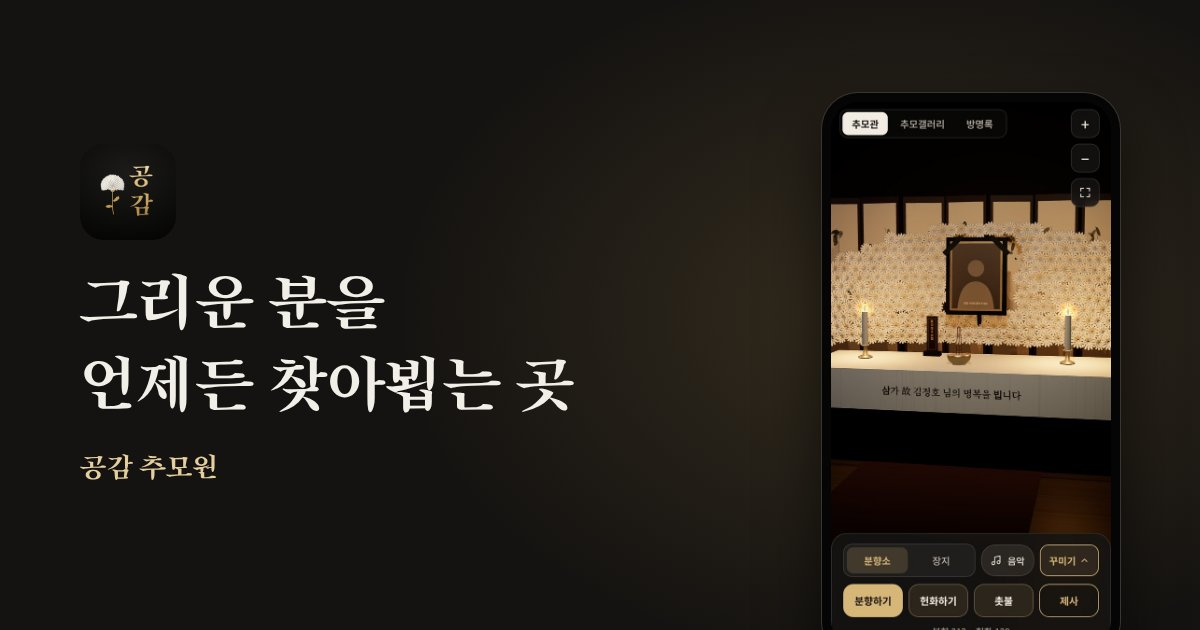
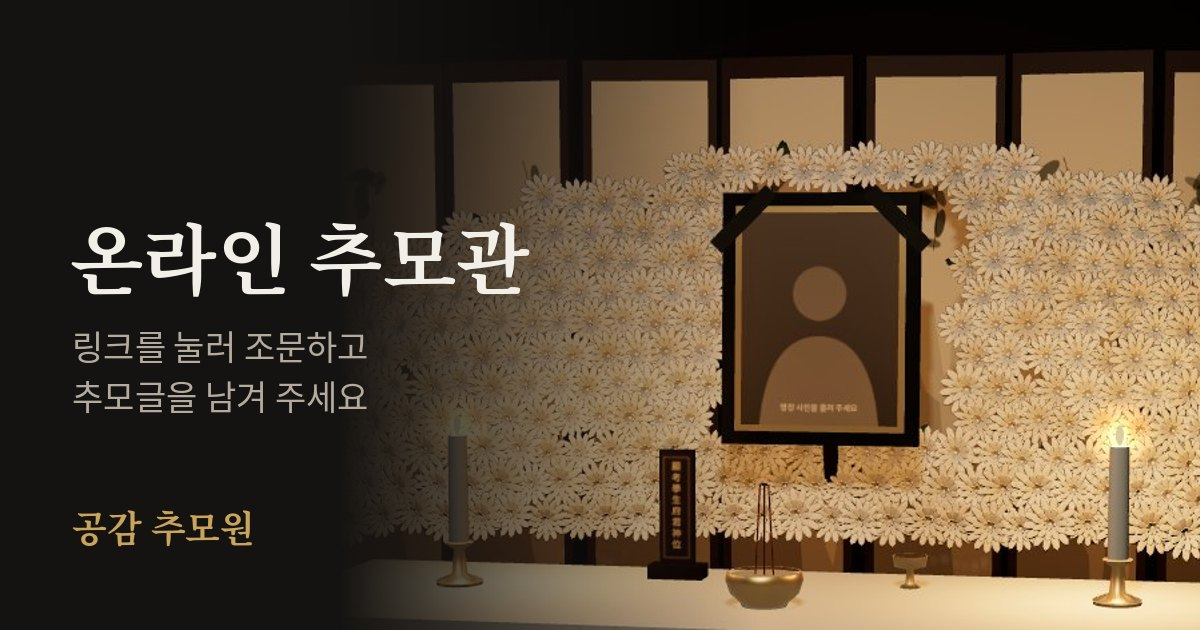
웹 추모관: 앱 없이 링크로 조문(헌화·추모글)
Claude-Session: https://claude.ai/code/session_01WvjGqiVXugAiAGwkNjewY5

diff --git a/m/index.html b/m/index.html
@@ -1,0 +1,204 @@
+<!doctype html>
+<html lang="ko">
+<head>
+<meta charset="utf-8">
+<meta name="viewport" content="width=device-width, initial-scale=1, viewport-fit=cover">
+<title>온라인 추모관 · 공감 추모원</title>
+<meta name="description" content="앱을 설치하지 않아도 링크로 조문하고 추모글을 남길 수 있어요.">
+<meta property="og:type" content="website">
+<meta property="og:title" content="온라인 추모관 · 공감 추모원">
+<meta property="og:description" content="링크를 눌러 조문하고 추모글을 남겨 주세요.">
+<meta property="og:image" content="https://gonggamchumowon.co.kr/img/og.jpg">
+<meta name="theme-color" content="#151311">
+<link rel="icon" href="../icon.png">
+<link rel="preconnect" href="https://fonts.googleapis.com">
+<link rel="preconnect" href="https://fonts.gstatic.com" crossorigin>
+<link rel="stylesheet" href="https://fonts.googleapis.com/css2?family=Song+Myung&family=IBM+Plex+Sans+KR:wght@400;500;600&display=swap">
+<style>
+:root {
+  --ink: #151311; --ink-2: #1e1b18; --ink-3: #26221e; --line: #34302a;
+  --gold: #c9a45c; --gold-soft: #e6cf9f; --mum: #f2efe8; --sub: #b3ab9f; --faint: #8a8276;
+  --display: "Song Myung", "Nanum Myeongjo", serif;
+  --body: "IBM Plex Sans KR", "Apple SD Gothic Neo", "Malgun Gothic", system-ui, sans-serif;
+  color-scheme: dark;
+}
+* { box-sizing: border-box; }
+html { -webkit-text-size-adjust: 100%; }
+body { margin: 0; background: var(--ink); color: var(--mum); font: 400 17px/1.75 var(--body); word-break: keep-all; }
+a { color: var(--gold-soft); }
+:focus-visible { outline: 2px solid var(--gold); outline-offset: 3px; border-radius: 6px; }
+.wrap { max-width: 560px; margin: 0 auto; padding: 0 max(20px, env(safe-area-inset-right, 0px)) 0 max(20px, env(safe-area-inset-left, 0px)); }
+header { border-bottom: 1px solid var(--line); }
+header .wrap { display: flex; align-items: center; gap: 10px; height: 60px; }
+.brand { display: flex; align-items: center; gap: 10px; color: var(--mum); text-decoration: none; font-family: var(--display); font-size: 19px; }
+.brand img { width: 30px; height: 30px; border-radius: 8px; }
+
+/* 분향소: 촛불빛이 영정 뒤로 번진다 */
+.altar { position: relative; text-align: center; padding: 44px 0 34px; isolation: isolate; }
+.altar::before { content: ""; position: absolute; inset: 0 -40px; z-index: -1; background: radial-gradient(ellipse 60% 52% at 50% 36%, rgba(201, 164, 92, .20), transparent 70%); }
+.portrait { position: relative; width: min(62vw, 240px); aspect-ratio: 3 / 4; margin: 0 auto; padding: 10px; background: linear-gradient(145deg, #e7cf93, #9c7a37 45%, #e1c47f 70%, #8a6a2d); border-radius: 4px; box-shadow: 0 24px 60px rgba(0, 0, 0, .55); }
+.portrait .in { width: 100%; height: 100%; background: #0d0c0b center / cover no-repeat; border-radius: 2px; display: grid; place-items: center; overflow: hidden; }
+.portrait .in svg { width: 46%; opacity: .35; }
+.portrait .ribbon { position: absolute; width: 46px; height: 46px; overflow: hidden; }
+.portrait .ribbon::after { content: ""; position: absolute; width: 90px; height: 16px; background: #0b0a09; top: 14px; left: -22px; transform: rotate(-45deg); }
+.portrait .ribbon.r { right: 0; top: 0; transform: scaleX(-1); }
+.portrait .ribbon.l { left: 0; top: 0; }
+.pet .portrait { border-radius: 50%; aspect-ratio: 1; padding: 8px; background: linear-gradient(145deg, #f6d8e4, #c8d9f3); }
+.pet .portrait .in { border-radius: 50%; }
+.pet .portrait .ribbon { display: none; }
+.pet .altar::before { background: radial-gradient(ellipse 60% 52% at 50% 36%, rgba(200, 180, 240, .2), transparent 70%); }
+h1 { font-family: var(--display); font-weight: 400; font-size: clamp(32px, 9vw, 42px); line-height: 1.25; margin: 28px 0 4px; }
+h1 small { font-size: .5em; color: var(--sub); margin-left: 6px; }
+.dates { color: var(--sub); font-size: 16px; letter-spacing: .02em; }
+.phrase { font-family: var(--display); color: var(--gold-soft); font-size: 20px; margin-top: 18px; }
+
+.acts { display: grid; grid-template-columns: 1fr 1fr; gap: 10px; margin: 6px 0 28px; }
+.btn { appearance: none; border: 0; cursor: pointer; font: 600 17px/1 var(--body); padding: 17px 12px; border-radius: 14px; text-align: center; text-decoration: none; display: inline-flex; align-items: center; justify-content: center; gap: 8px; min-height: 56px; }
+.btn.gold { background: var(--gold); color: #1d1608; }
+.btn.gold:hover { background: var(--gold-soft); }
+.btn.line { background: transparent; color: var(--mum); border: 1px solid #5a5145; }
+.btn.line:hover { border-color: var(--gold); }
+.btn[disabled] { opacity: .5; cursor: default; }
+
+.count { display: flex; justify-content: space-between; align-items: baseline; border-top: 1px solid var(--line); padding-top: 22px; }
+.count h2 { font-family: var(--display); font-weight: 400; font-size: 22px; margin: 0; }
+.count span { color: var(--faint); font-size: 15px; }
+.notes { list-style: none; margin: 14px 0 0; padding: 0; display: grid; gap: 10px; }
+.notes li { background: var(--ink-2); border: 1px solid var(--line); border-radius: 14px; padding: 16px 18px; }
+.notes .who { display: flex; gap: 8px; align-items: center; font-weight: 600; font-size: 15.5px; }
+.notes .who em { font-style: normal; color: var(--faint); font-weight: 400; font-size: 14px; }
+.notes .who .fl { margin-left: auto; color: var(--gold); font-size: 13px; font-weight: 500; }
+.notes p { margin: 6px 0 0; color: #e2ddd3; white-space: pre-wrap; }
+.empty { color: var(--faint); padding: 18px 0 4px; }
+
+form { display: none; background: var(--ink-2); border: 1px solid var(--line); border-radius: 18px; padding: 20px; margin: 0 0 28px; }
+form.on { display: block; }
+form h3 { font-family: var(--display); font-weight: 400; font-size: 21px; margin: 0 0 12px; }
+label { display: block; font-size: 14.5px; color: var(--sub); margin-top: 12px; }
+input, textarea { width: 100%; font: 400 17px/1.5 var(--body); color: var(--mum); background: var(--ink); border: 1px solid #4a4339; border-radius: 12px; padding: 13px 14px; margin-top: 6px; }
+input:focus, textarea:focus { outline: none; border-color: var(--gold); }
+textarea { min-height: 120px; resize: vertical; }
+.row { display: grid; grid-template-columns: 1fr 1fr; gap: 10px; }
+.check { display: flex; align-items: center; gap: 10px; color: var(--mum); font-size: 16px; margin-top: 14px; }
+.check input { width: 22px; height: 22px; margin: 0; accent-color: var(--gold); }
+.err { color: #f0a58f; font-size: 15px; margin-top: 10px; min-height: 1em; }
+form .btns { display: flex; gap: 10px; margin-top: 16px; }
+form .btns .btn { flex: 1; }
+
+.app { margin: 34px 0 20px; padding: 22px; border-radius: 18px; background: linear-gradient(160deg, #241f19, #17140f); border: 1px solid #4b4031; }
+.app h2 { font-family: var(--display); font-weight: 400; font-size: 21px; margin: 0 0 6px; }
+.app p { color: var(--sub); font-size: 15.5px; margin: 0 0 14px; }
+.app .code { font-family: var(--display); font-size: 24px; letter-spacing: .08em; color: var(--gold-soft); }
+.copy { appearance: none; background: none; border: 1px solid #5a5145; color: var(--mum); font: 500 14px var(--body); padding: 6px 12px; border-radius: 999px; margin-left: 10px; cursor: pointer; vertical-align: middle; }
+
+.state { text-align: center; padding: 80px 0; }
+.state h1 { font-size: 28px; }
+.state p { color: var(--sub); margin-top: 10px; }
+footer { color: var(--faint); font-size: 13.5px; text-align: center; padding: 26px 0 calc(30px + env(safe-area-inset-bottom, 0px)); }
+footer a { color: var(--sub); }
+.toast { position: fixed; left: 50%; bottom: calc(24px + env(safe-area-inset-bottom, 0px)); transform: translateX(-50%); background: var(--mum); color: var(--ink); padding: 12px 18px; border-radius: 12px; font-size: 15px; opacity: 0; transition: opacity .25s; pointer-events: none; max-width: 90vw; }
+.toast.on { opacity: 1; }
+@media (prefers-reduced-motion: reduce) { .toast { transition: none; } }
+</style>
+</head>
+<body>
+<header><div class="wrap"><a class="brand" href="../"><img src="../icon.png" alt="">공감 추모원</a></div></header>
+<main class="wrap" id="main">
+  <div class="state" id="loading"><p>추모관을 여는 중이에요…</p></div>
+</main>
+<footer><a href="../">공감 추모원</a> · <a href="../privacy.html">개인정보처리방침</a></footer>
+<div class="toast" id="toast" role="status" aria-live="polite"></div>
+
+<script>
+const API = 'https://asia-northeast3-gonggam-chumowon.cloudfunctions.net/web';
+const $ = (s) => document.querySelector(s);
+const esc = (t) => String(t || '').replace(/[&<>"']/g, (c) => ({ '&': '&amp;', '<': '&lt;', '>': '&gt;', '"': '&quot;', "'": '&#39;' })[c]);
+const code = (new URLSearchParams(location.search).get('c') || location.hash.slice(1) || '').toUpperCase().trim();
+const fmt = (d) => { const m = /^(\d{4})-(\d{2})-(\d{2})/.exec(d || ''); return m ? `${+m[1]}. ${+m[2]}. ${+m[3]}.` : ''; };
+const ago = (t) => { if (!t) return ''; const d = new Date(t); return `${d.getFullYear()}. ${d.getMonth() + 1}. ${d.getDate()}.`; };
+function toast(t) { const el = $('#toast'); el.textContent = t; el.classList.add('on'); clearTimeout(toast.t); toast.t = setTimeout(() => el.classList.remove('on'), 2600); }
+async function copy(t) { try { await navigator.clipboard.writeText(t); toast('복사했어요'); } catch (e) { toast(t); } }
+
+function state(title, body) {
+  $('#main').innerHTML = `<div class="state"><h1>${title}</h1><p>${body}</p><p style="margin-top:26px"><a class="btn line" href="../">공감 추모원 둘러보기</a></p></div>`;
+}
+
+const SIL = '<svg viewBox="0 0 64 64" aria-hidden="true"><circle cx="32" cy="22" r="12" fill="#c9a45c"/><path d="M8 62c2-14 12-22 24-22s22 8 24 22" fill="#c9a45c"/></svg>';
+const PAW = '<svg viewBox="0 0 64 64" aria-hidden="true"><g fill="#b9a3c9"><ellipse cx="32" cy="42" rx="14" ry="12"/><circle cx="14" cy="28" r="6"/><circle cx="24" cy="16" r="6"/><circle cx="40" cy="16" r="6"/><circle cx="50" cy="28" r="6"/></g></svg>';
+
+function render(v) {
+  const pet = v.pet;
+  document.body.classList.toggle('pet', pet);
+  document.title = `${pet ? v.name : '故 ' + v.name} 추모관 · 공감 추모원`;
+  const notes = v.notes.map((n) => `<li><div class="who">${esc(n.name)}${n.rel ? ` <em>${esc(n.rel)}</em>` : ''}${n.flower ? '<span class="fl">헌화</span>' : ''}</div><p>${esc(n.text)}</p></li>`).join('');
+  $('#main').innerHTML = `
+  <section class="altar" aria-label="분향소">
+    <div class="portrait"><div class="in" ${v.photo ? `style="background-image:url('${esc(v.photo)}')"` : ''} role="img" aria-label="${esc(v.name)} ${pet ? '사진' : '영정'}">${v.photo ? '' : (pet ? PAW : SIL)}</div><span class="ribbon l"></span><span class="ribbon r"></span></div>
+    <h1>${pet ? '' : '故 '}${esc(v.name)}${v.title ? `<small>${esc(v.title)}</small>` : ''}</h1>
+    <div class="dates">${fmt(v.born)} – ${fmt(v.died)}</div>
+    <div class="phrase">${esc(v.phrase)}</div>
+  </section>
+  <div class="acts">
+    <button class="btn gold" id="b-flower" ${v.gbOpen ? '' : 'disabled'}>${pet ? '꽃 놓아 주기' : '헌화하기'}</button>
+    <button class="btn line" id="b-note" ${v.gbOpen ? '' : 'disabled'}>추모글 남기기</button>
+  </div>
+  <form id="f" novalidate>
+    <h3 id="f-title">추모글 남기기</h3>
+    <div class="row">
+      <label>이름<input id="who" maxlength="14" autocomplete="name" placeholder="예: 김민수"></label>
+      <label>관계 (선택)<input id="rel" maxlength="10" placeholder="예: 친구, 이웃"></label>
+    </div>
+    <label>남길 말<textarea id="text" maxlength="500" placeholder="고인께 전하고 싶은 말을 적어 주세요."></textarea></label>
+    <label class="check"><input type="checkbox" id="flower"> ${pet ? '꽃도 함께 놓아요' : '국화 한 송이도 함께 올려요'}</label>
+    <div class="err" id="err"></div>
+    <div class="btns"><button type="button" class="btn line" id="cancel">닫기</button><button type="submit" class="btn gold" id="send">올리기</button></div>
+  </form>
+  <section aria-labelledby="gb">
+    <div class="count"><h2 id="gb">추모글</h2><span>${v.noteCount}개</span></div>
+    ${v.gbOpen ? (notes ? `<ul class="notes">${notes}</ul>` : '<p class="empty">아직 남긴 글이 없어요. 첫 마음을 전해 주세요.</p>') : '<p class="empty">가족만 볼 수 있는 방명록이에요.</p>'}
+  </section>
+  <section class="app">
+    <h2>${pet ? '무지개 정원에서 더 가까이' : '3D 분향소와 장지에서 더 가까이'}</h2>
+    <p>공감 추모원 앱에서는 ${pet ? '아이의 사진과 영상, 좋아하던 간식과 장난감이 놓인 무지개 정원' : '향을 피우고 꽃을 올리는 3D 분향소와, 실제처럼 꾸민 장지'}에 들어갈 수 있어요. 앱에서 아래 추모원 번호를 넣어 주세요.</p>
+    <div><span class="code">${esc(v.code)}</span><button class="copy" id="cp">번호 복사</button></div>
+    <p style="margin:14px 0 0"><a class="btn line" href="../#contact" style="width:100%">앱 출시 알림 받기</a></p>
+  </section>`;
+  const f = $('#f');
+  const open = (flower) => { f.classList.add('on'); $('#flower').checked = flower; $('#f-title').textContent = flower ? (pet ? '꽃 놓아 주기' : '헌화하기') : '추모글 남기기'; if (flower && !$('#text').value) $('#text').value = pet ? '고마웠어, 사랑해.' : '삼가 고인의 명복을 빕니다.'; $('#who').focus(); };
+  $('#b-flower').onclick = () => open(true);
+  $('#b-note').onclick = () => open(false);
+  $('#cancel').onclick = () => f.classList.remove('on');
+  $('#cp').onclick = () => copy(v.code);
+  f.onsubmit = async (e) => {
+    e.preventDefault();
+    const text = $('#text').value.trim();
+    if (!text) { $('#err').textContent = '남길 말을 적어 주세요.'; return; }
+    $('#send').disabled = true; $('#err').textContent = '';
+    try {
+      const r = await fetch(API, { method: 'POST', headers: { 'content-type': 'application/json' }, body: JSON.stringify({ c: v.code, who: $('#who').value, rel: $('#rel').value, text, flower: $('#flower').checked }) });
+      const j = await r.json();
+      if (!r.ok || !j.ok) throw new Error(j.error || '올리지 못했어요.');
+      toast($('#flower').checked ? (pet ? '꽃을 놓았어요.' : '헌화했어요.') + ' 마음이 전해질 거예요.' : '추모글을 올렸어요.');
+      load();
+    } catch (err) { $('#err').textContent = err.message || '잠시 뒤 다시 시도해 주세요.'; $('#send').disabled = false; }
+  };
+}
+
+async function load() {
+  if (!/^[A-Z0-9]{4}-[A-Z0-9]{4}$/.test(code)) return state('추모원 번호를 확인해 주세요', '받으신 링크가 끝까지 복사되었는지 확인해 주세요. 추모원 번호는 "ABCD-1234"처럼 생겼어요.');
+  try {
+    const r = await fetch(API + '?c=' + encodeURIComponent(code), { cache: 'no-store' });
+    const v = await r.json();
+    if (v.error) return state('추모원 번호를 확인해 주세요', esc(v.error));
+    if (!v.open) return v.exists
+      ? state('가족만 들어갈 수 있는 추모관이에요', '이 추모관은 비공개예요. 가족에게 초대를 받으면 공감 추모원 앱에서 들어갈 수 있어요.')
+      : state('추모관을 찾지 못했어요', '번호가 바뀌었거나 추모관이 정리되었을 수 있어요. 링크를 보내 주신 분께 한 번 더 확인해 주세요.');
+    render(v);
+  } catch (e) {
+    state('잠시 연결이 어려워요', '인터넷 연결을 확인하고 다시 열어 주세요.');
+  }
+}
+load();
+</script>
+</body>
+</html>
